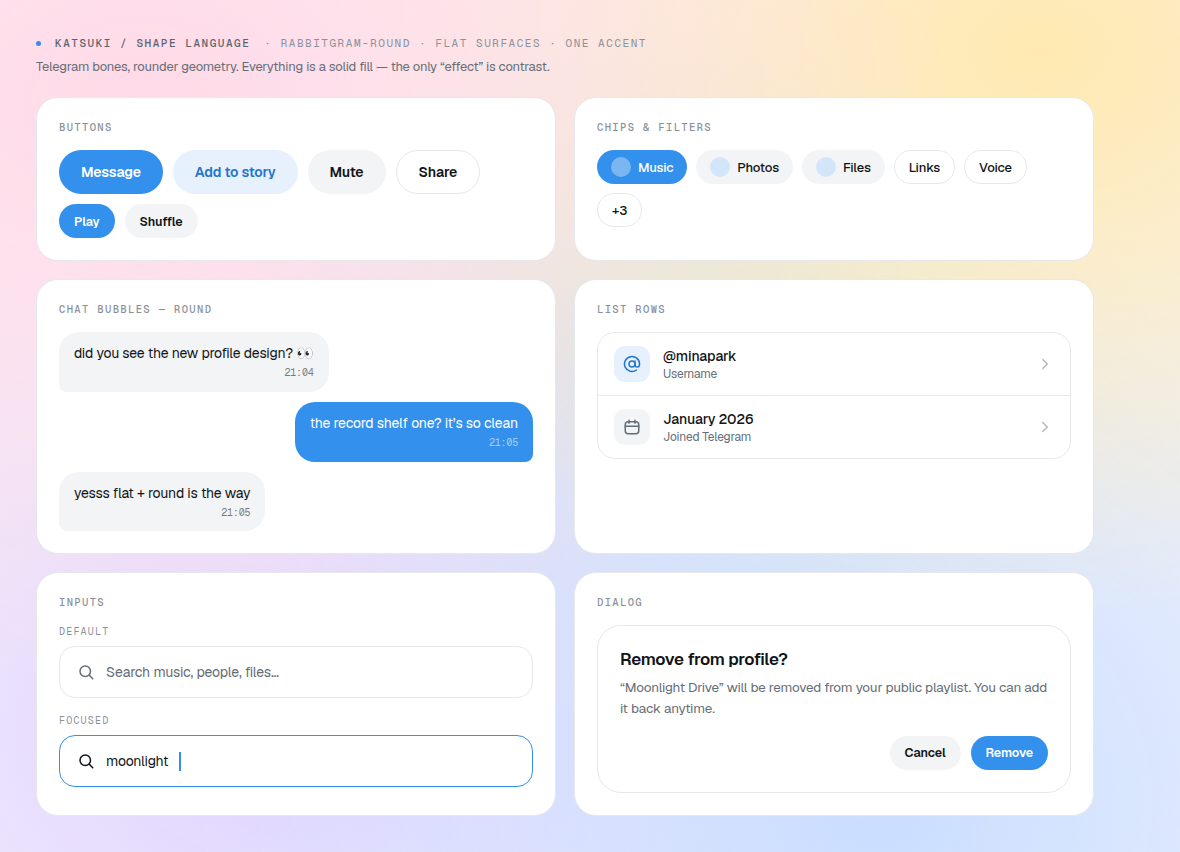
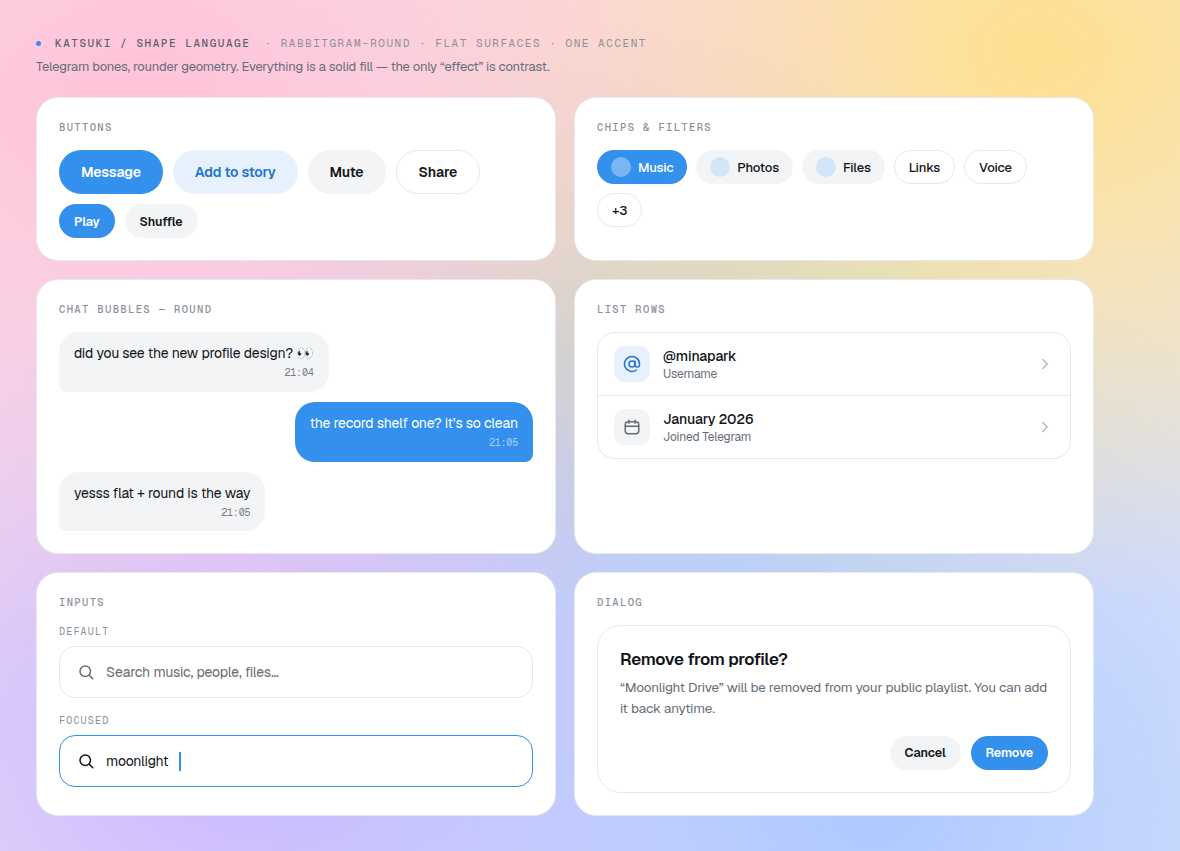
Design: deeper pastel canvas, compact bio below username, equal panel heights, profile tab pill (Posts selected)

diff --git a/docs/design-mockups/profile-v2.html b/docs/design-mockups/profile-v2.html
@@ -2,7 +2,7 @@
 <html lang="en">
 <head>
 <meta charset="UTF-8">
-<title>Katsuki · Profile v2 — clean, tg-honest</title>
+<title>Katsuki · Profile v3 — music card + channel card</title>
 <link rel="preconnect" href="https://fonts.googleapis.com">
 <link rel="preconnect" href="https://fonts.gstatic.com" crossorigin>
 <link href="https://fonts.googleapis.com/css2?family=Geist:wght@400;500;600;700&family=Geist+Mono:wght@400;500&display=swap" rel="stylesheet">
@@ -15,7 +15,7 @@
   *{margin:0;padding:0;box-sizing:border-box}
   body{
     font-family:'Geist',-apple-system,'Segoe UI',sans-serif;color:var(--text);
-    background:var(--canvas);-webkit-font-smoothing:antialiased;letter-spacing:-0.011em;
+    background:radial-gradient(at 12% 12%, #FFC2D8 0%, transparent 55%),radial-gradient(at 88% 6%, #FFE08F 0%, transparent 50%),radial-gradient(at 74% 94%, #AEC8FF 0%, transparent 55%),radial-gradient(at 22% 86%, #C9B4FF 0%, transparent 52%),radial-gradient(at 55% 42%, #A5E1C2 0%, transparent 48%),linear-gradient(135deg,#FBEAF1 0%,#E3EAFC 100%);-webkit-font-smoothing:antialiased;letter-spacing:-0.011em;
     padding:36px;
   }
   .label{
@@ -24,12 +24,13 @@
   }
   .label b{color:#5B626C;font-weight:500}
   .label .dot{width:5px;height:5px;border-radius:50%;background:var(--accent)}
-  .row-wrap{display:flex;gap:26px;align-items:flex-start}
+  .row-wrap{display:flex;gap:26px;align-items:stretch}
+  .col{display:flex;flex-direction:column}
   .col .tag{font-family:'Geist Mono',monospace;font-size:10px;letter-spacing:.12em;text-transform:uppercase;color:#8A919B;margin:0 0 10px 6px}
 
-  .panel{width:412px;background:var(--bg);border:1px solid var(--border);border-radius:24px;overflow:hidden}
+  .panel{width:412px;flex:1;background:var(--bg);border:1px solid var(--border);border-radius:24px;overflow:hidden}
 
-  /* ---------- shared bits ---------- */
+  /* ---------- music card ---------- */
   .song-card{
     position:relative;height:84px;border-radius:22px;overflow:hidden;background:var(--accent-soft);
     display:flex;align-items:center;gap:13px;padding:0 14px;
@@ -42,13 +43,35 @@
   .song-card .disc .vinyl{width:29px;height:29px;border-radius:50%;background:#8FB9E8;position:relative}
   .song-card .disc .vinyl::after{content:"";position:absolute;inset:10px;border-radius:50%;background:#C9DFF7}
   .song-card .meta{flex:1;min-width:0;z-index:1}
-  .song-card .meta .t{font-size:15px;font-weight:600;letter-spacing:-0.016em;white-space:nowrap}
+  .song-card .meta .t{font-size:15px;font-weight:600;letter-spacing:-0.016em;white-space:nowrap;overflow:hidden;text-overflow:ellipsis}
   .song-card .meta .a{font-size:12.5px;color:#4A6B92;margin-top:2px;display:flex;align-items:center;gap:8px}
   .song-card .meta .a .time{font-family:'Geist Mono',monospace;font-size:11px;color:#6E8DB2}
   .song-card .meta .a .time::before{content:"";display:inline-block;width:3px;height:3px;border-radius:50%;background:#9DB9D8;margin:0 7px 2px 0}
   .song-card .play{width:42px;height:42px;border-radius:50%;background:var(--accent);flex:none;display:flex;align-items:center;justify-content:center;z-index:1}
   .song-card .more{width:26px;display:flex;align-items:center;justify-content:center;color:#7FA6CE;flex:none;z-index:1}
 
+  /* ---------- channel card (tinier, same family) ---------- */
+  .chan-card{
+    position:relative;height:62px;border-radius:18px;overflow:hidden;background:var(--subtle);
+    display:flex;align-items:center;gap:11px;padding:0 13px;margin-top:9px;
+  }
+  .chan-card .slices{position:absolute;right:16px;top:0;bottom:0;display:flex;align-items:center;gap:7px}
+  .chan-card .slices i{width:7px;border-radius:999px;background:#E2E5EA}
+  .chan-card .slices i:nth-child(1){height:16px}.chan-card .slices i:nth-child(2){height:32px}
+  .chan-card .slices i:nth-child(3){height:22px}
+  .chan-card .pfp{
+    width:40px;height:40px;border-radius:50%;flex:none;background:#DCE0E6;
+    display:flex;align-items:center;justify-content:center;font-size:13.5px;font-weight:600;color:#5A636E;letter-spacing:-0.02em;
+  }
+  .chan-card .meta{flex:1;min-width:0;z-index:1}
+  .chan-card .meta .t{font-size:13.5px;font-weight:600;letter-spacing:-0.014em;white-space:nowrap;overflow:hidden;text-overflow:ellipsis}
+  .chan-card .meta .m{
+    font-size:12px;color:var(--text-2);margin-top:2px;
+    white-space:nowrap;overflow:hidden;text-overflow:ellipsis;
+  }
+  .chan-card .more{width:22px;display:flex;align-items:center;justify-content:center;color:#A2A9B3;flex:none;z-index:1}
+
+  /* ---------- actions / info ---------- */
   .actions{display:flex;gap:9px;padding:2px 20px 18px}
   .btn{
     height:44px;border-radius:999px;border:none;cursor:pointer;font-family:inherit;
@@ -72,19 +95,19 @@
   .topbar .title{font-size:15px;font-weight:600}
   .A .hero{text-align:center;padding:4px 22px 18px}
   .A .avatar{
-    width:124px;height:124px;border-radius:36px;margin:6px auto 15px;background:var(--accent-soft);
+    width:124px;height:124px;border-radius:50%;margin:6px auto 15px;background:var(--accent-soft);
     display:flex;align-items:center;justify-content:center;font-size:42px;font-weight:600;color:#2A72C4;letter-spacing:-0.03em;
   }
   .A .name{font-size:22px;font-weight:600;letter-spacing:-0.024em}
   .A .handle{font-size:13.5px;color:var(--text-2);margin-top:3px}
-  .A .status{display:inline-flex;align-items:center;gap:6px;margin-top:9px;background:var(--accent-soft);color:#2374CC;border-radius:999px;padding:5px 11px;font-size:12px;font-weight:500}
+  .A .status{display:inline-flex;align-items:center;gap:6px;margin-top:9px;background:var(--subtle);color:var(--text-2);border-radius:999px;padding:5px 11px;font-size:12px;font-weight:500}
   .A .status .live{width:6px;height:6px;border-radius:50%;background:var(--accent)}
   .A .song-wrap{padding:0 18px 8px}
 
   /* ---------- VARIANT B: compact desktop panel ---------- */
   .B .head{display:flex;align-items:center;gap:15px;padding:18px 18px 14px}
   .B .avatar{
-    width:82px;height:82px;border-radius:26px;flex:none;background:var(--accent-soft);
+    width:82px;height:82px;border-radius:50%;flex:none;background:var(--accent-soft);
     display:flex;align-items:center;justify-content:center;font-size:28px;font-weight:600;color:#2A72C4;letter-spacing:-0.03em;
   }
   .B .name{font-size:19px;font-weight:600;letter-spacing:-0.022em}
@@ -92,15 +115,23 @@
   .B .status{display:inline-flex;align-items:center;gap:6px;margin-top:8px;background:var(--accent-soft);color:#2374CC;border-radius:999px;padding:4px 10px;font-size:11.5px;font-weight:500}
   .B .status .live{width:6px;height:6px;border-radius:50%;background:var(--accent)}
   .B .song-wrap{padding:0 18px 8px}
-  .B .bio{
-    margin:6px 18px 16px;padding:13px 15px;background:var(--subtle);border-radius:14px;
-    font-size:13.5px;line-height:1.5;color:#3D434C;
+  /* ---------- profile tabs: long pill · Posts selected in inner pill ---------- */
+  .tabs{display:flex;justify-content:center;padding:0 18px 22px}
+  .tab-row{
+    display:flex;align-items:center;gap:4px;height:46px;padding:6px;flex:none;
+    background:var(--subtle);border-radius:999px;max-width:100%;overflow:hidden;
   }
+  .tab{
+    height:34px;padding:0 15px;border-radius:999px;border:none;background:transparent;
+    font-family:inherit;font-size:12.5px;font-weight:600;color:var(--text-2);cursor:pointer;
+    flex:none;letter-spacing:-0.01em;
+  }
+  .tab.sel{background:var(--accent-soft);color:#2374CC}
 </style>
 </head>
 <body>
 
-<div class="label"><span class="dot"></span><b>Katsuki / Profile v2</b> · no tiles · no section header · single song card · tg-honest</div>
+<div class="label"><span class="dot"></span><b>Katsuki / Profile v3</b> · music card + channel card below it · flat · tg-honest</div>
 
 <div class="row-wrap">
 
@@ -121,8 +152,7 @@
       <div class="hero">
         <div class="avatar">MP</div>
         <div class="name">Mina Park</div>
-        <div class="handle">@minapark</div>
-        <div class="status"><span class="live"></span>listening now</div>
+        <div class="status">last seen recently</div>
       </div>
 
       <div class="actions">
@@ -134,8 +164,8 @@
           <svg width="17" height="17" viewBox="0 0 24 24" fill="none" stroke="currentColor" stroke-width="2" stroke-linecap="round" stroke-linejoin="round"><path d="M22 16.9v3a2 2 0 0 1-2.2 2 19.8 19.8 0 0 1-8.6-3.1 19.5 19.5 0 0 1-6-6A19.8 19.8 0 0 1 2.1 4.2 2 2 0 0 1 4.1 2h3a2 2 0 0 1 2 1.7c.1 1 .4 1.9.7 2.8a2 2 0 0 1-.5 2.1L8.1 9.9a16 16 0 0 0 6 6l1.3-1.2a2 2 0 0 1 2.1-.5c.9.3 1.8.6 2.8.7a2 2 0 0 1 1.7 2z"/></svg>
           Call
         </button>
-        <button class="btn icon">
-          <svg width="17" height="17" viewBox="0 0 24 24" fill="currentColor"><circle cx="5" cy="12" r="2"/><circle cx="12" cy="12" r="2"/><circle cx="19" cy="12" r="2"/></svg>
+        <button class="btn icon" title="Mute">
+          <svg width="18" height="18" viewBox="0 0 24 24" fill="none" stroke="currentColor" stroke-width="2" stroke-linecap="round" stroke-linejoin="round"><path d="M18 8a6 6 0 1 0-12 0c0 7-3 9-3 9h18s-3-2-3-9"/><path d="M13.7 21a2 2 0 0 1-3.4 0"/></svg>
         </button>
       </div>
 
@@ -152,6 +182,15 @@
             <svg width="18" height="18" viewBox="0 0 24 24" fill="none" stroke="currentColor" stroke-width="2.2" stroke-linecap="round"><path d="M9 6l6 6-6 6"/></svg>
           </div>
         </div>
+
+        <div class="chan-card">
+          <div class="slices"><i></i><i></i><i></i></div>
+          <div class="pfp">KN</div>
+          <div class="meta">
+            <div class="t">Katsuki News</div>
+            <div class="m">The new profile cards just landed in the beta channel and they look….</div>
+          </div>
+          </div>
       </div>
 
       <div class="info">
@@ -166,6 +205,17 @@
         <div class="irow">
           <div class="ic"><svg width="16" height="16" viewBox="0 0 24 24" fill="none" stroke="currentColor" stroke-width="2" stroke-linecap="round"><circle cx="12" cy="12" r="9"/><path d="M12 16v-4M12 8.5h.01"/></svg></div>
           <div><div class="k">Bio</div><div class="v">making playlists instead of plans</div></div>
+        </div>
+      </div>
+
+      <div class="tabs">
+        <div class="tab-row">
+          <button class="tab sel">Posts</button>
+          <button class="tab">Gifts</button>
+          <button class="tab">Media</button>
+          <button class="tab">Saved</button>
+          <button class="tab">Files</button>
+          <button class="tab">Links</button>
         </div>
       </div>
     </div>
@@ -189,8 +239,7 @@
         <div class="avatar">MP</div>
         <div>
           <div class="name">Mina Park</div>
-          <div class="sub">@minapark · last seen 2m ago</div>
-          <div class="status"><span class="live"></span>listening now</div>
+          <div class="sub">last seen recently</div>
         </div>
       </div>
 
@@ -203,8 +252,8 @@
           <svg width="17" height="17" viewBox="0 0 24 24" fill="none" stroke="currentColor" stroke-width="2" stroke-linecap="round" stroke-linejoin="round"><path d="M22 16.9v3a2 2 0 0 1-2.2 2 19.8 19.8 0 0 1-8.6-3.1 19.5 19.5 0 0 1-6-6A19.8 19.8 0 0 1 2.1 4.2 2 2 0 0 1 4.1 2h3a2 2 0 0 1 2 1.7c.1 1 .4 1.9.7 2.8a2 2 0 0 1-.5 2.1L8.1 9.9a16 16 0 0 0 6 6l1.3-1.2a2 2 0 0 1 2.1-.5c.9.3 1.8.6 2.8.7a2 2 0 0 1 1.7 2z"/></svg>
           Call
         </button>
-        <button class="btn icon">
-          <svg width="17" height="17" viewBox="0 0 24 24" fill="currentColor"><circle cx="5" cy="12" r="2"/><circle cx="12" cy="12" r="2"/><circle cx="19" cy="12" r="2"/></svg>
+        <button class="btn icon" title="Mute">
+          <svg width="18" height="18" viewBox="0 0 24 24" fill="none" stroke="currentColor" stroke-width="2" stroke-linecap="round" stroke-linejoin="round"><path d="M18 8a6 6 0 1 0-12 0c0 7-3 9-3 9h18s-3-2-3-9"/><path d="M13.7 21a2 2 0 0 1-3.4 0"/></svg>
         </button>
       </div>
 
@@ -221,9 +270,16 @@
             <svg width="18" height="18" viewBox="0 0 24 24" fill="none" stroke="currentColor" stroke-width="2.2" stroke-linecap="round"><path d="M9 6l6 6-6 6"/></svg>
           </div>
         </div>
-      </div>
 
-      <div class="bio">making playlists instead of plans</div>
+        <div class="chan-card">
+          <div class="slices"><i></i><i></i><i></i></div>
+          <div class="pfp">KN</div>
+          <div class="meta">
+            <div class="t">Katsuki News</div>
+            <div class="m">The new profile cards just landed in the beta channel and they look….</div>
+          </div>
+          </div>
+      </div>
 
       <div class="info">
         <div class="irow">
@@ -233,6 +289,21 @@
         <div class="irow">
           <div class="ic"><svg width="16" height="16" viewBox="0 0 24 24" fill="none" stroke="currentColor" stroke-width="2" stroke-linecap="round"><circle cx="12" cy="12" r="4"/><path d="M16 8v5a3 3 0 0 0 6 0v-1a10 10 0 1 0-4 8"/></svg></div>
           <div><div class="k">Username</div><div class="v accent">@minapark</div></div>
+        </div>
+        <div class="irow">
+          <div class="ic"><svg width="16" height="16" viewBox="0 0 24 24" fill="none" stroke="currentColor" stroke-width="2" stroke-linecap="round"><circle cx="12" cy="12" r="9"/><path d="M12 16v-4M12 8.5h.01"/></svg></div>
+          <div><div class="k">Bio</div><div class="v">making playlists instead of plans</div></div>
+        </div>
+      </div>
+
+      <div class="tabs">
+        <div class="tab-row">
+          <button class="tab sel">Posts</button>
+          <button class="tab">Gifts</button>
+          <button class="tab">Media</button>
+          <button class="tab">Saved</button>
+          <button class="tab">Files</button>
+          <button class="tab">Links</button>
         </div>
       </div>
     </div>

diff --git a/docs/design-mockups/player-v2.html b/docs/design-mockups/player-v2.html
@@ -24,7 +24,7 @@
   *{margin:0;padding:0;box-sizing:border-box}
   body{
     font-family:'Geist',-apple-system,'Segoe UI',sans-serif;color:var(--on-surface);
-    background:var(--canvas);-webkit-font-smoothing:antialiased;letter-spacing:-0.011em;
+    background:radial-gradient(at 12% 12%, #FFC2D8 0%, transparent 55%),radial-gradient(at 88% 6%, #FFE08F 0%, transparent 50%),radial-gradient(at 74% 94%, #AEC8FF 0%, transparent 55%),radial-gradient(at 22% 86%, #C9B4FF 0%, transparent 52%),radial-gradient(at 55% 42%, #A5E1C2 0%, transparent 48%),linear-gradient(135deg,#FBEAF1 0%,#E3EAFC 100%);-webkit-font-smoothing:antialiased;letter-spacing:-0.011em;
     padding:36px;
   }
   .label{

diff --git a/docs/design-mockups/music-sheet.html b/docs/design-mockups/music-sheet.html
@@ -15,7 +15,7 @@
   *{margin:0;padding:0;box-sizing:border-box}
   body{
     font-family:'Geist',-apple-system,'Segoe UI',sans-serif;color:var(--text);
-    background:var(--canvas);-webkit-font-smoothing:antialiased;letter-spacing:-0.011em;
+    background:radial-gradient(at 12% 12%, #FFC2D8 0%, transparent 55%),radial-gradient(at 88% 6%, #FFE08F 0%, transparent 50%),radial-gradient(at 74% 94%, #AEC8FF 0%, transparent 55%),radial-gradient(at 22% 86%, #C9B4FF 0%, transparent 52%),radial-gradient(at 55% 42%, #A5E1C2 0%, transparent 48%),linear-gradient(135deg,#FBEAF1 0%,#E3EAFC 100%);-webkit-font-smoothing:antialiased;letter-spacing:-0.011em;
     padding:36px;
   }
   .label{

diff --git a/docs/design-mockups/shapes.html b/docs/design-mockups/shapes.html
@@ -15,7 +15,7 @@
   *{margin:0;padding:0;box-sizing:border-box}
   body{
     font-family:'Geist',-apple-system,'Segoe UI',sans-serif;color:var(--text);
-    background:var(--canvas);-webkit-font-smoothing:antialiased;letter-spacing:-0.011em;
+    background:radial-gradient(at 12% 12%, #FFC2D8 0%, transparent 55%),radial-gradient(at 88% 6%, #FFE08F 0%, transparent 50%),radial-gradient(at 74% 94%, #AEC8FF 0%, transparent 55%),radial-gradient(at 22% 86%, #C9B4FF 0%, transparent 52%),radial-gradient(at 55% 42%, #A5E1C2 0%, transparent 48%),linear-gradient(135deg,#FBEAF1 0%,#E3EAFC 100%);-webkit-font-smoothing:antialiased;letter-spacing:-0.011em;
     padding:36px;
   }
   .label{

diff --git a/docs/design-mockups/song-card.html b/docs/design-mockups/song-card.html
@@ -16,7 +16,7 @@
   *{margin:0;padding:0;box-sizing:border-box}
   body{
     font-family:'Geist',-apple-system,'Segoe UI',sans-serif;color:var(--text);
-    background:var(--canvas);-webkit-font-smoothing:antialiased;letter-spacing:-0.011em;
+    background:radial-gradient(at 12% 12%, #FFC2D8 0%, transparent 55%),radial-gradient(at 88% 6%, #FFE08F 0%, transparent 50%),radial-gradient(at 74% 94%, #AEC8FF 0%, transparent 55%),radial-gradient(at 22% 86%, #C9B4FF 0%, transparent 52%),radial-gradient(at 55% 42%, #A5E1C2 0%, transparent 48%),linear-gradient(135deg,#FBEAF1 0%,#E3EAFC 100%);-webkit-font-smoothing:antialiased;letter-spacing:-0.011em;
     padding:36px;
   }
   .label{

diff --git a/design.md b/design.md
@@ -73,8 +73,8 @@ MD3 player role mapping: `primary #2E7CD6`, `primary-container #D6E8FB`, `second
 
 Telegram bones, new composition. **No playlist tiles, no "Music" section header** — a profile shows a person, not a library.
 
-- **Variant A — centered hero:** **round** avatar (124², circle) → name (22/600) → **"last seen recently"** pill (neutral gray, same spot) → action pill row → **single song card** → **channel card** → info container (phone / username / bio rows). **No `@handle` near the name** — the username lives in the info rows.
-- **Variant B — compact desktop panel:** **round** avatar (82²) + name + "last seen recently" sub on one row, action pills, song card, channel card, bio tile (subtle, r14), info rows. Denser, tdesktop-panel feel.
+- **Variant A — centered hero:** **round** avatar (124², circle) → name (22/600) → **"last seen recently"** pill (neutral gray, same spot) → action pill row → **single song card** → **channel card** → info container (phone / username / bio rows) → **profile tab pill** below the bio (long pill: `Posts · Gifts · Media · Saved · Files · Links`, centered, `Posts` selected in an inner pill; the row may clip at the panel edge — fit what fits). **No `@handle` near the name** — the username lives in the info rows.
+- **Variant B — compact desktop panel:** **round** avatar (82²) + name + "last seen recently" sub on one row, action pills, song card, channel card, info rows **(phone / username / bio — same order as A; bio is a row, not a separate tile)**, then the same profile tab pill. **Panel height matches A** — empty white space at the bottom is fine. Denser, tdesktop-panel feel.
 
 Action row: `Message` (accent, labeled) · `Call` (tonal, labeled) · **bell/mute (icon-only tonal, no label)**. No `···` button (the top bar already has one), no gift.
 
@@ -133,7 +133,7 @@ System reference: buttons (primary/tonal/neutral/outline + small), chips (select
 
 ## Presentation (mockups only — not product UI)
 
-The mockup pages sit on a **soft pastel gradient canvas** (very light pink → yellow → blue → lilac, e.g. radial pastels over `#FBF8F5`) so the white panels pop in screenshots and the README. **The product UI itself stays flat and solid** — the gradient is presentation chrome only.
+The mockup pages sit on a **pastel gradient canvas** (pink → yellow → blue → lilac → mint radials over a soft warm base — clearly visible colors, not washed out) so the white panels pop in screenshots and the README. **The product UI itself stays flat and solid** — the gradient is presentation chrome only.
 
 README banner = **typography lockup**: heavy sans `KATSU` + outlined `KI` + Georgia-italic `*` accent + italic serif `desktop` + Geist Mono captions (`/ KATSUKI UI`, `FLAT · ROUNDED · MATERIAL`), on the same pastel gradient. Fonts must be system-safe (Georgia/Menlo fallbacks) since GitHub renders SVGs without webfonts.
 

diff --git a/raw.md b/raw.md
@@ -65,11 +65,12 @@ Fonts: `Geist` 400/500/600/700 + `Geist Mono` 400/500 via Google Fonts. Base let
 **Presentation canvas (mockup pages only, NOT product UI):**
 ```css
 background:
-  radial-gradient(at 14% 10%, #FDEDF4 0%, transparent 55%),
-  radial-gradient(at 86% 6%, #FFF4E0 0%, transparent 50%),
-  radial-gradient(at 68% 96%, #EAF1FF 0%, transparent 55%),
-  radial-gradient(at 30% 80%, #F3EDFF 0%, transparent 50%),
-  linear-gradient(135deg,#FBF8F5 0%,#F7F5FB 100%);
+  radial-gradient(at 12% 12%, #FFC2D8 0%, transparent 55%),
+  radial-gradient(at 88% 6%, #FFE08F 0%, transparent 50%),
+  radial-gradient(at 74% 94%, #AEC8FF 0%, transparent 55%),
+  radial-gradient(at 22% 86%, #C9B4FF 0%, transparent 52%),
+  radial-gradient(at 55% 42%, #A5E1C2 0%, transparent 48%),
+  linear-gradient(135deg,#FBEAF1 0%,#E3EAFC 100%);
 ```
 
 ## 4 · Map to tdesktop source (implementation)
